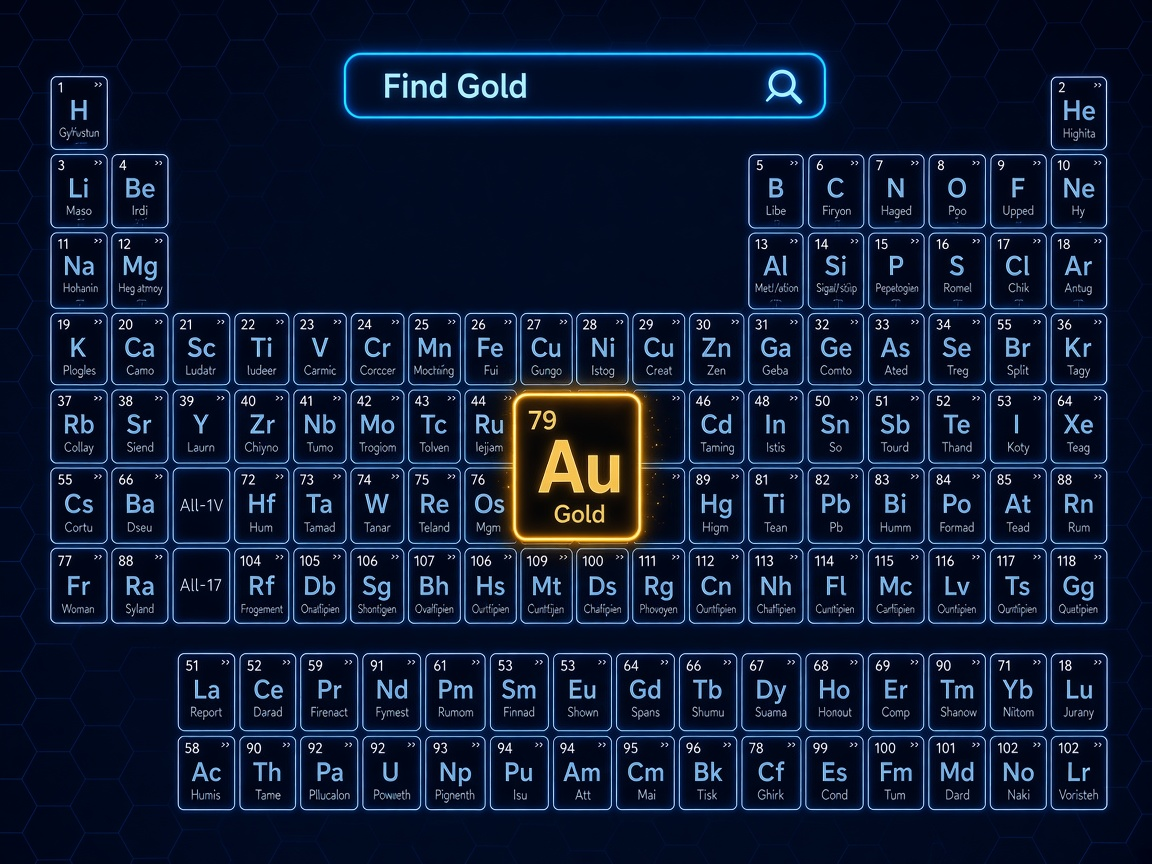
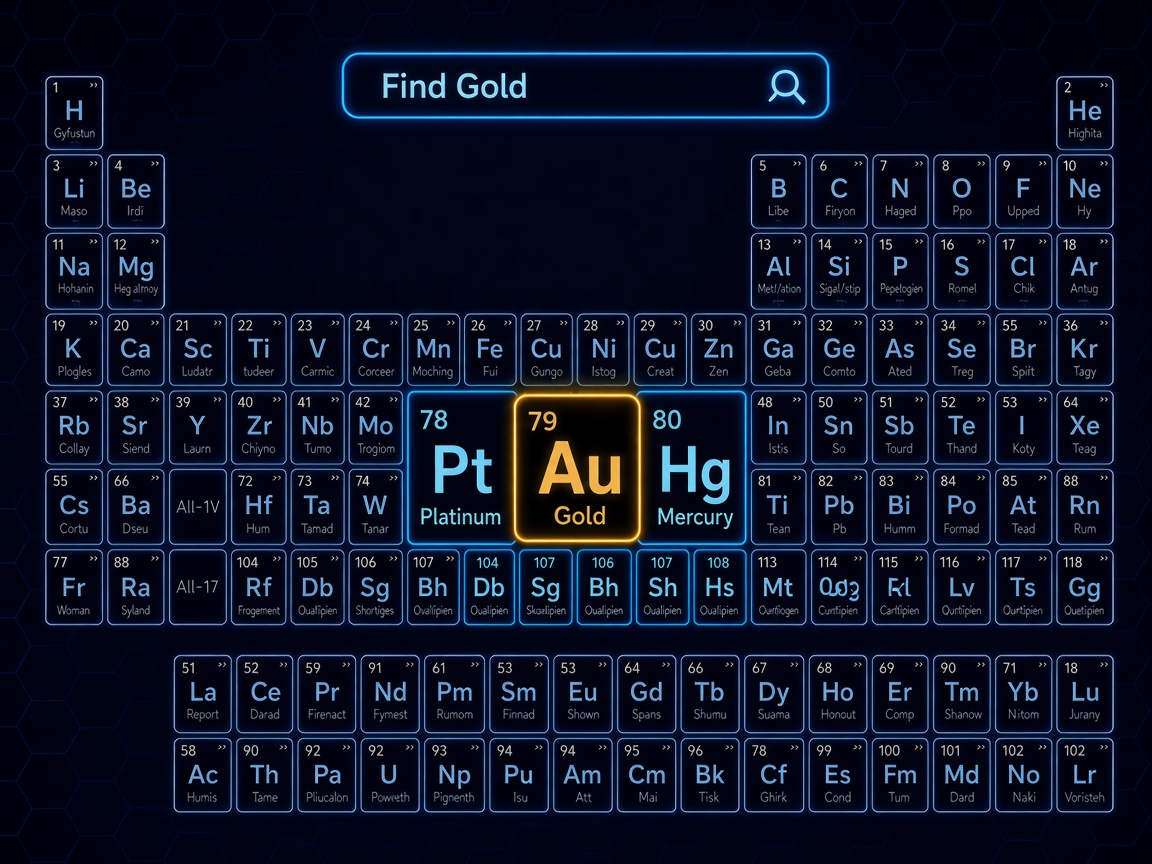
Fill the Find-by-name holes beside gold and show Atomic number as the real shuffled list.

Changed region(s): [[0.0312, 0.0312, 0.9688, 0.9688]]

diff --git a/CHANGELOG.md b/CHANGELOG.md
@@ -7,6 +7,12 @@ and this project adheres to [Semantic Versioning](https://semver.org/spec/v2.0.0
 
 ## [Unreleased]
 
+## [0.28.20] - 2026-09-17
+
+### Changed
+
+- Find by name fills the empty cells beside gold. Atomic number uses the real shuffled-list play layout.
+
 ## [0.28.19] - 2026-09-17
 
 ### Changed
